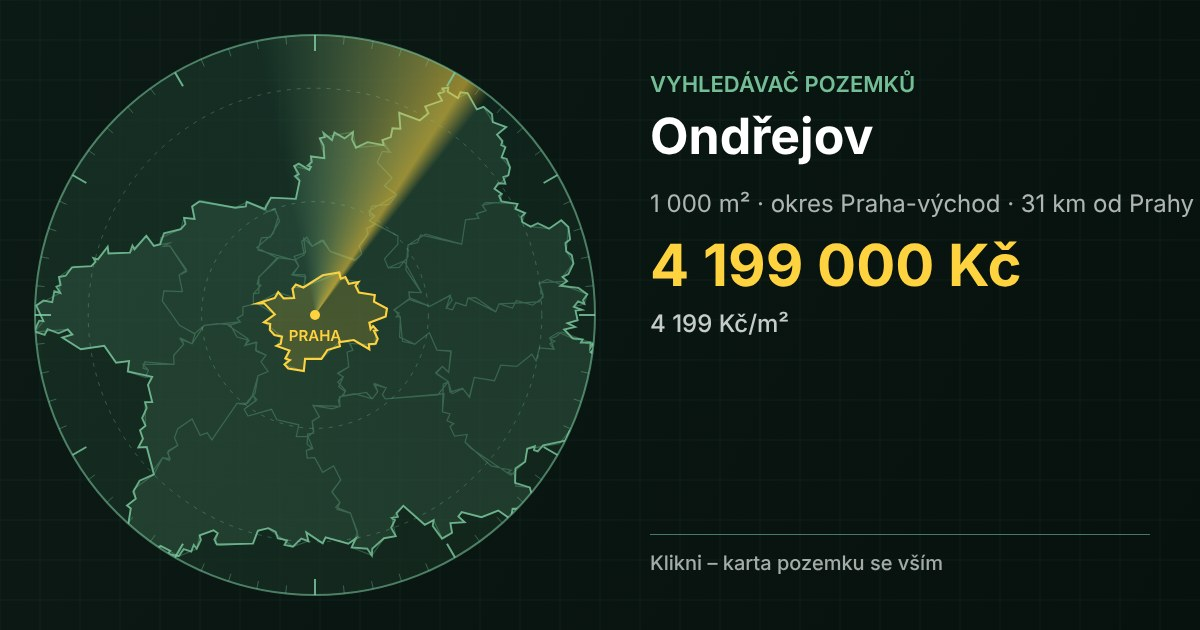
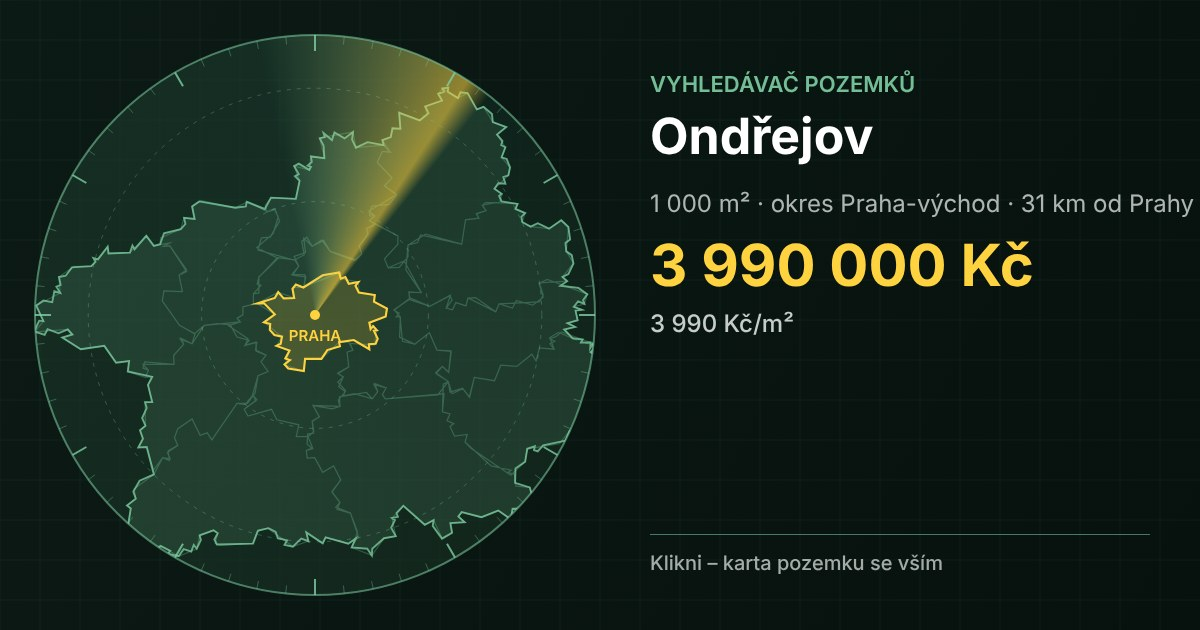
Obnova náhledu 26. 11. 2026: Ondřejov – nová cena
Claude-Session: https://claude.ai/code/session_01MoaZpwJieQugdyTZZ3RK1K

Changed region(s): [[0.5242, 0.3619, 0.8633, 0.4524], [0.5242, 0.4825, 0.6783, 0.5429]]

diff --git a/k/sreality-2873860172.html b/k/sreality-2873860172.html
@@ -1,8 +1,8 @@
 <!doctype html><html lang="cs"><head><meta charset="utf-8"><meta name="viewport" content="width=device-width,initial-scale=1">
-<title>Ondřejov · Vyhledávač pozemků</title><meta name="description" content="1 000 m² · 4 199 000 Kč · okres Praha-východ · 31 km od Prahy">
-<meta property="og:type" content="website"><meta property="og:site_name" content="Vyhledávač pozemků"><meta property="og:title" content="Ondřejov · Vyhledávač pozemků"><meta property="og:description" content="1 000 m² · 4 199 000 Kč · okres Praha-východ · 31 km od Prahy">
-<meta property="og:image" content="https://tommygee-claude.github.io/karta/k/sreality-2873860172.jpg?v=mw89dqbh"><meta property="og:image:width" content="1200"><meta property="og:image:height" content="630"><meta property="og:url" content="https://tommygee-claude.github.io/karta/k/sreality-2873860172.html">
-<meta name="twitter:card" content="summary_large_image"><meta name="twitter:image" content="https://tommygee-claude.github.io/karta/k/sreality-2873860172.jpg?v=mw89dqbh">
+<title>Ondřejov · Vyhledávač pozemků</title><meta name="description" content="1 000 m² · 3 990 000 Kč · okres Praha-východ · 31 km od Prahy">
+<meta property="og:type" content="website"><meta property="og:site_name" content="Vyhledávač pozemků"><meta property="og:title" content="Ondřejov · Vyhledávač pozemků"><meta property="og:description" content="1 000 m² · 3 990 000 Kč · okres Praha-východ · 31 km od Prahy">
+<meta property="og:image" content="https://tommygee-claude.github.io/karta/k/sreality-2873860172.jpg?v=mwxhqgb5"><meta property="og:image:width" content="1200"><meta property="og:image:height" content="630"><meta property="og:url" content="https://tommygee-claude.github.io/karta/k/sreality-2873860172.html">
+<meta name="twitter:card" content="summary_large_image"><meta name="twitter:image" content="https://tommygee-claude.github.io/karta/k/sreality-2873860172.jpg?v=mwxhqgb5">
 <meta http-equiv="refresh" content="0;url=https://claude.ai/artifact/LPUksfypRdYod6b5fz7vpv#karta-sreality-2873860172">
 <style>body{margin:0;background:#0c1a15;color:#e7ece8;font:16px -apple-system,Segoe UI,Roboto,Arial,sans-serif;display:grid;place-items:center;min-height:100vh}a{color:#ffd23f}</style>
 <script>(function(){var c="https://claude.ai/artifact/LPUksfypRdYod6b5fz7vpv#karta-sreality-2873860172";if(!c){var m=location.search.match(/[?&]k=([A-Za-z0-9._~-]{1,200})/);c="https://claude.ai/artifact/LPUksfypRdYod6b5fz7vpv"+(m?'#karta-'+m[1]:'')}location.replace(c)})()</script>
